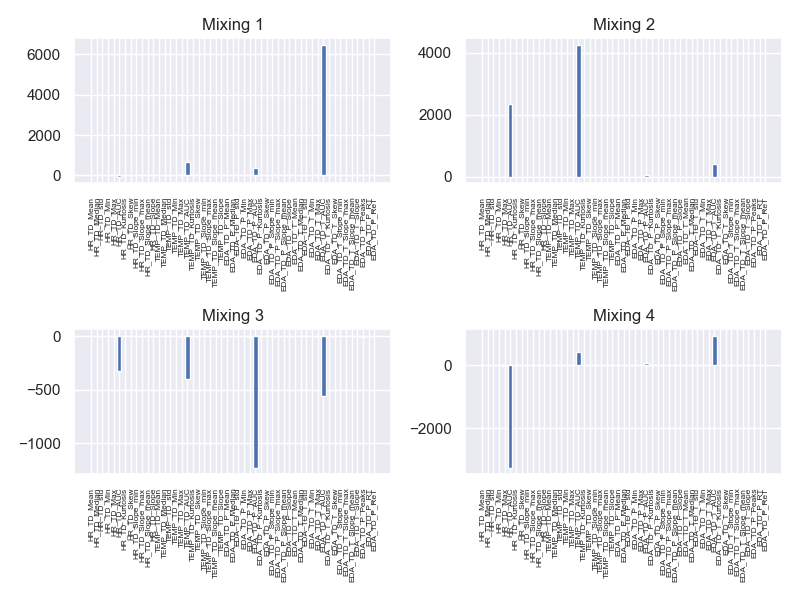
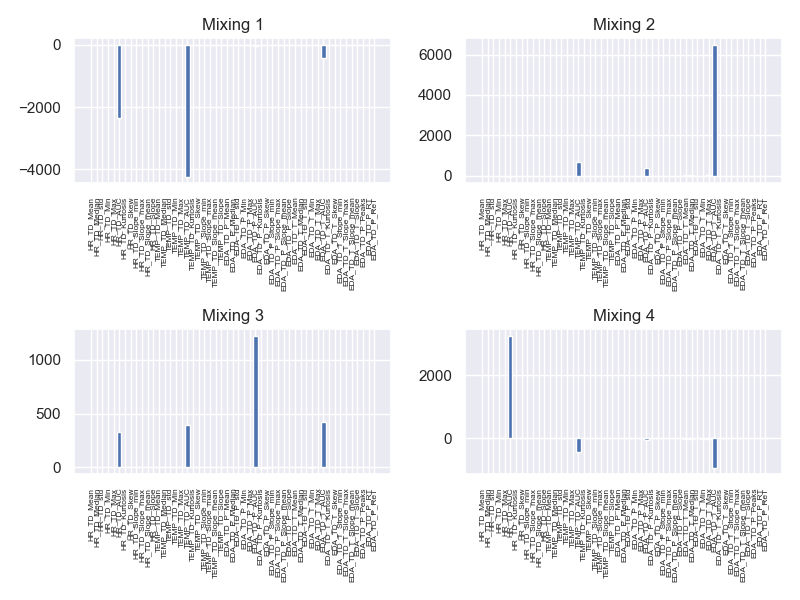
Fixed all plots - yay

diff --git a/src/case2/decomposition/nmf.py b/src/case2/decomposition/nmf.py
@@ -17,28 +17,68 @@ FIGURE_DIR = Path(__file__).expanduser().parent.parent.parent.parent / 'docs' / 
 FIGURE_DIR.mkdir(parents=True, exist_ok=True)
 
 
+# def preprocess_for_nmf(
+#     X: pd.DataFrame
+# ) -> Tuple[pd.DataFrame, pd.Series]:
+#     """
+#     Impute missing values and shift data to be non-negative.
+#     """
+#     X_nonneg = X.copy().astype(float)
+#     X_nonneg = X_nonneg.fillna(X_nonneg.median())
+#     shifts = pd.Series(index=X_nonneg.columns, dtype=float)
+#     for col in X_nonneg.columns:
+#         min_val = X_nonneg[col].min()
+#         shifts[col] = min_val
+#         if min_val < 0:
+#             X_nonneg[col] -= min_val
+#     return X_nonneg, shifts
+
 def preprocess_for_nmf(
     X: pd.DataFrame
 ) -> Tuple[pd.DataFrame, pd.Series]:
     """
-    Impute missing values and shift data to be non-negative.
+    Impute missing values, shift data to be non-negative, and drop any zero-variance features.
+    
+    Parameters
+    ----------
+    X : pd.DataFrame
+        Original feature matrix.
+
+    Returns
+    -------
+    X_nonneg : pd.DataFrame
+        The non-negative, imputed feature matrix with zero-variance columns removed.
+    shifts : pd.Series
+        The amount each original column was shifted (min value).
     """
+    # 1) Copy & impute
     X_nonneg = X.copy().astype(float)
     X_nonneg = X_nonneg.fillna(X_nonneg.median())
+
+    # 2) Record shifts & make non-negative
     shifts = pd.Series(index=X_nonneg.columns, dtype=float)
     for col in X_nonneg.columns:
         min_val = X_nonneg[col].min()
         shifts[col] = min_val
         if min_val < 0:
             X_nonneg[col] -= min_val
+
+    # # 3) Drop zero-variance (constant) features
+    # zero_var = X_nonneg.std(axis=0) == 0
+    # if zero_var.any():
+    #     dropped = zero_var[zero_var].index.tolist()
+    #     print(f"Dropping zero-variance features: {dropped}")
+    #     X_nonneg = X_nonneg.loc[:, ~zero_var]
+    #     shifts = shifts.loc[X_nonneg.columns]
+
     return X_nonneg, shifts
 
 
 def compute_nmf(
     X: np.ndarray,
     n_components: int,
-    init: str = 'nndsvda',
-    solver: str = 'cd',
+    init: str = 'random',
+    solver: str = 'mu',
     random_state: int = 0
 ) -> Tuple[np.ndarray, np.ndarray, float]:
     """
@@ -127,7 +167,8 @@ def plot_nmf_subplots(
       - 'Phase'
       - 'Puzzler'
       - each emotion column in y
-    Uses the same style/layout as the PCA subplots.
+    Uses the same style/layout as the PCA subplots,
+    but skips any points where W[:,0] or W[:,1] is NaN.
     """
     # 1) Build titles dict
     phases = np.sort(y.index.get_level_values("Phase").unique())
@@ -136,7 +177,10 @@ def plot_nmf_subplots(
         if col not in titles and col not in ["Individual", "Round"]:
             titles[col] = np.sort(y[col].unique())
 
-    # 2) Grid dimensions
+    # 2) Compute valid‐point mask once
+    valid = np.isfinite(W[:, 0]) & np.isfinite(W[:, 1])
+
+    # 3) Grid dimensions
     n_plots = len(titles)
     ncols = math.ceil(math.sqrt(n_plots))
     nrows = math.ceil(n_plots / ncols)
@@ -148,15 +192,19 @@ def plot_nmf_subplots(
     )
     axes = axes.flatten()
 
-    # 3) Scatter by each label
+    # 4) Scatter by each label, filtering out NaNs
     for ax, (title, unique_vals) in zip(axes, titles.items()):
         for val in unique_vals:
-            # mask on MultiIndex or on column
             try:
                 mask = y.index.get_level_values(title) == val
             except KeyError:
                 mask = y[title] == val
-            idx = np.where(mask)[0]
+
+            # combine with valid mask
+            combined = mask & valid
+            idx = np.where(combined)[0]
+            if idx.size == 0:
+                continue
 
             ax.scatter(
                 W[idx, 0], W[idx, 1],
@@ -173,7 +221,7 @@ def plot_nmf_subplots(
         ax.grid(True)
         ax.set_title(f"{method_name} - {title}")
 
-    # 4) Disable any extra axes
+    # 5) Disable any extra axes
     for ax in axes[len(titles):]:
         ax.set_visible(False)
 
@@ -183,6 +231,7 @@ def plot_nmf_subplots(
     save_path.parent.mkdir(parents=True, exist_ok=True)
     plt.savefig(save_path)
     plt.close(fig)
+
 
 def run_nmf_pipeline(
     X: pd.DataFrame,

diff --git a/src/case2/decomposition/ica.py b/src/case2/decomposition/ica.py
@@ -33,6 +33,15 @@ def preprocess_for_ica(
     Xc = X_imputed - X_imputed.mean()
     return Xc
 
+# def preprocess_for_ica(X: pd.DataFrame) -> pd.DataFrame:
+#     X_imputed = X.fillna(X.median())
+#     Xc = X_imputed - X_imputed.mean()
+#     # drop constant columns
+#     zero_var = Xc.std() <= 0
+#     if zero_var.any():
+#         print("Dropping zero-variance features:", list(Xc.columns[zero_var]))
+#         Xc = Xc.loc[:, ~zero_var]
+#     return Xc
 
 def compute_ica(
     X: np.ndarray,
@@ -48,11 +57,12 @@ def compute_ica(
     S has shape (n_samples, n_components); A is (n_components, n_features).
     """
     ica = FastICA(
-        n_components=n_components,
-        whiten='unit-variance',
-        random_state=random_state,
-        max_iter=max_iter,
-        tol=tol
+        n_components=n_components,algorithm='parallel'
+        # n_components=n_components,
+        # whiten='unit-variance',
+        # random_state=random_state,
+        # max_iter=max_iter,
+        # tol=tol
     )
     # Suppress convergence warnings
     with warnings.catch_warnings():
@@ -157,21 +167,31 @@ def plot_ica_subplots(
                              figsize=(7 * ncols, 7 * nrows))
     axes = axes.flatten()
 
+    valid = np.isfinite(S[:, 0]) & np.isfinite(S[:, 1])
+
     # For each label type, plot S[:,0] vs S[:,1]
     for ax, (title, unique_values) in zip(axes, titles.items()):
+
         for val in unique_values:
-            # mask either on index or on column
+            # original mask for this category
             try:
                 mask = y.index.get_level_values(title) == val
             except KeyError:
                 mask = y[title] == val
-            idx = np.where(mask)[0]
+
+            # combine with “valid” mask to drop NaNs
+            combined = mask & valid
+            idx = np.where(combined)[0]
+            if len(idx) == 0:
+                continue
+
             ax.scatter(
                 S[idx, 0],
                 S[idx, 1],
-                label=val,
+                label=str(val),
                 alpha=0.7
             )
+        
         ax.set_xlabel("IC 1")
         ax.set_ylabel("IC 2")
         # dashed zero‐lines
@@ -222,7 +242,8 @@ def run_ica_pipeline(
     ax.plot(k_list, evs, marker='o', label='Explained Variance')
 
     # Determine chosen k as the smallest k with maximal explained variance
-    max_ev = 1.0
+    # max_ev = 1.0
+    max_ev = max(evs)
     eps = 1e-4
     chosen = None
     for k_val, ev_val in zip(k_list, evs):
